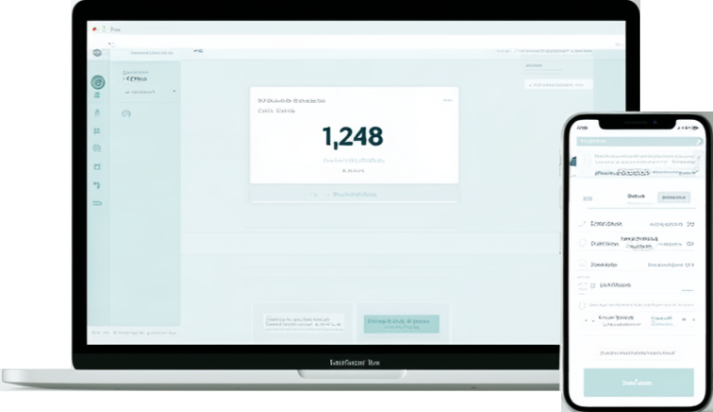
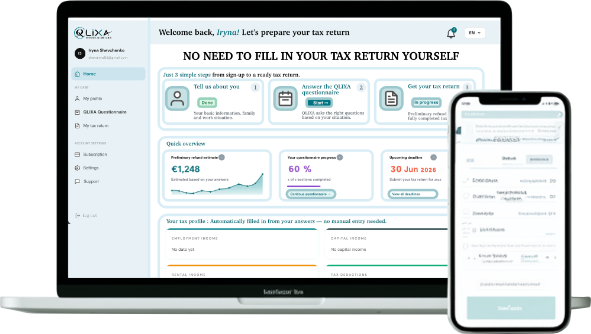
updated

diff --git a/src/app/for/naymanyy/page.tsx b/src/app/for/naymanyy/page.tsx
@@ -12,43 +12,43 @@ const CABINET_CTA = 'https://cabinet-ten-lac.vercel.app/login?plan=employee'
 
 const T: Record<string, any> = {
   UA: {
-    badge: 'Для найманих працівників',
-    heroQ: 'Працюєш за наймом в Австрії?',
+    badge: 'Для найманих працівників, самозайнятих, фрилансерів та інших',
+    heroQ: 'Працюєш або маєш дохід в Австрії?',
     relatedLinks: [
       { label: 'Маєш капітальні та закордонні доходи', href: '/for/samostiynyy' },
       { label: 'Здаєш нерухомість', href: '/for/nerukhomist' },
       { label: 'Або маєш дохід з кількох джерел', href: '/for/nerukhomist' },
       { label: 'Пенсіонер з доходом', href: '/for/pensioner' },
     ],
-    heroDesc: 'Цей інструмент для тебе, якщо ти хочеш самостійно подати декларацію, не знаєш, які витрати можна врахувати, маєш сім\u2019ю, дітей або інші обставини, що можуть впливати на податкове повернення.',
+    heroDesc: 'Не потрібно знати, що можна списати або куди це вписувати. Просто відповідай на зрозумілі запитання — QLIXA розбере саме твою ситуацію.',
     heroNote: 'Не потрібно бути бухгалтером — QLIXA проведе тебе крок за кроком.',
-    h1Before: 'Розрахуй своє податкове повернення ',
+    h1Before: 'Підготуй свою податкову декларацію ',
     h1Emphasis: 'в Австрії',
-    heroSubtext: 'QLIXA проведе тебе через персональну податкову анкету, знайде можливі відрахування та покаже орієнтовну суму повернення.',
+    heroSubtext: 'QLIXA проведе тебе через персональну податкову анкету, перевірить можливі категорії списань, покаже попередній розрахунок можливого повернення та підготує повністю заповнену декларацію.',
     price: '19,90', period: '/ рік',
     priceNote: 'Разова оплата · доступ протягом податкового року',
     ctaMain: 'Почати розрахунок →',
-    features: ['Без щомісячної підписки', 'Доступ одразу після оплати', 'Можна заповнювати протягом року', 'Підходить для більшості працівників по найму'],
+    features: ['Особистий кабінет', 'Персональна автоматизована анкета', 'Аналіз твоєї ситуації', 'Перевірка можливих категорій списань', 'Попередній розрахунок можливого повернення', 'Повністю заповнена податкова декларація', 'Підготовка для подання через FinanzOnline'],
 
     block3H2: 'Не потрібно знати, що можна списати',
     block3Sub: 'QLIXA сама поставить правильні запитання.',
-    block3P1: 'Тобі не потрібно пам\u2019ятати всі можливі податкові витрати або знати австрійські податкові правила.',
-    block3P2: 'Ти просто відповідаєш на зрозумілі запитання — QLIXA аналізує твою ситуацію та визначає, що може бути релевантним саме тобі.',
+    block3P1: 'Тобі не потрібно знати, які списання стосуються саме тебе, або розбиратися в австрійських податкових правилах.',
+    block3P2: 'Ти відповідаєш на прості запитання про роботу, сім\u2019ю, доходи, витрати та інші обставини — QLIXA підбирає наступні запитання залежно від твоїх відповідей.',
     quoteQ: 'Не знаєш, що можна списати?',
     quoteA: 'Тобі не потрібно знати. QLIXA запитає.',
 
     questionsLabel: 'QLIXA питає',
-    questions: ['Чи маєш ти витрати, пов\u2019язані з дорогою до роботи?', 'Ти працюєш частково з дому?', 'У тебе є діти?'],
+    questions: ['Чи маєш ти витрати, пов\u2019язані з роботою?', 'Ти працюєш частково або повністю з дому?', 'Чи маєш ти додаткові доходи?'],
     yes: 'Так', no: 'Ні',
     relevantLabel: 'QLIXA додає наступні релевантні питання',
-    relevantItems: ['Витрати на дітей', 'Сімейні бонуси', 'Додаткові відрахування'],
-    resultLabel: 'Твій результат',
-    resultDesc: 'Можливе повернення податку',
+    relevantItems: ['Робочі витрати', 'Сімейні обставини', 'Інші доходи (оренда, інвестиції)'],
+    resultLabel: 'Попередній розрахунок',
+    resultDesc: 'можливого повернення',
     resultAmount: '€1 248',
     flow1: 'Ти відповідаєш', flow2: 'QLIXA аналізує', flow3: 'Отримуєш результат',
 
     block5H2: 'Не потрібно згадувати все в останній день',
-    block5Sub: 'Можеш вести свої дані протягом року — або пройти все одразу.',
+    block5Sub: 'Можеш додавати дані поступово протягом року або пройти всю анкету одразу.',
     card1Label: 'Протягом року',
     card1Desc: 'Додавай витрати та важливі обставини поступово, щоб нічого не забути.',
     card1Tag: 'Зручно для планування',
@@ -62,9 +62,9 @@ const T: Record<string, any> = {
     categories: [
       { icon: '💼', title: 'Робота', desc: 'Витрати та обставини, пов\u2019язані з роботою.' },
       { icon: '🚗', title: 'Дорога', desc: 'Витрати та обставини, пов\u2019язані з дорогою до роботи.' },
-      { icon: '🏠', title: 'Житло', desc: 'Релевантні витрати, пов\u2019язані з роботою та житлом.' },
       { icon: '👨👩👧', title: 'Сім\u2019я', desc: 'Діти, сімейний статус та інші важливі обставини.' },
       { icon: '🎓', title: 'Навчання', desc: 'Професійне навчання та розвиток.' },
+      { icon: '📈', title: 'Інвестиції та оренда', desc: 'Дохід від інвестицій, оренди або інших джерел.' },
       { icon: '⋯', title: 'Інші обставини', desc: 'QLIXA поставить додаткові питання, якщо вони можуть впливати на результат.' },
     ],
     block6Footer1: 'Тобі не потрібно самостійно визначати податкову категорію — ',
@@ -74,12 +74,12 @@ const T: Record<string, any> = {
     steps: [
       { n: '01', title: 'Персональна податкова анкета', desc: 'QLIXA збирає інформацію про твою ситуацію.' },
       { n: '02', title: 'Можливі податкові відрахування', desc: 'Побачиш, що може бути враховано саме у твоєму випадку.' },
-      { n: '03', title: 'Розрахунок', desc: 'Отримаєш орієнтовний розрахунок можливого повернення.' },
-      { n: '04', title: 'Готові дані для FinanzOnline', desc: 'Зможеш використати підготовлений результат під час подання декларації.' },
+      { n: '03', title: 'Розрахунок', desc: 'Отримаєш попередній розрахунок можливого повернення.' },
+      { n: '04', title: 'Повністю заповнена декларація', desc: 'QLIXA формує готову до перевірки та подання податкову декларацію на основі твоїх відповідей.' },
     ],
 
-    block8H2: 'Готовий перевірити своє податкове повернення?',
-    block8Sub: 'Відповідай на прості запитання. QLIXA зробить складну частину за тебе.',
+    block8H2: 'Готовий підготувати свою декларацію?',
+    block8Sub: 'Відповідай на прості запитання. QLIXA розбере твою ситуацію, покаже попередній результат та підготує декларацію.',
     underCta: 'Після оплати ти одразу можеш перейти до персональної податкової анкети.',
 
     faqH2: 'Поширені питання',
@@ -87,7 +87,7 @@ const T: Record<string, any> = {
       { q: 'Чи потрібно знати австрійські податкові правила?', a: 'Ні. QLIXA проводить тебе через анкету простою мовою.' },
       { q: 'Чи можна заповнювати анкету поступово?', a: 'Так. Дані можна додавати протягом року.' },
       { q: 'Чи можна пройти все одразу?', a: 'Так. Якщо інформація вже під рукою, можна пройти анкету за один раз.' },
-      { q: 'Чи є щомісячна підписка?', a: 'Ні. Тариф «Найманий працівник» оплачується один раз — €19,90 за податковий рік.' },
+      { q: 'Чи подає QLIXA декларацію за мене?', a: 'Ні. Ти отримуєш повністю заповнену декларацію, перевіряєш її та подаєш самостійно через FinanzOnline. Рішення завжди залишається за тобою.' },
     ],
 
     block10H2: 'Перевір, скільки можеш повернути',
@@ -639,7 +639,7 @@ export default function Page() {
             maxWidth: 380, margin: '0 auto',
           }}>
             <div style={{ fontSize: 11, fontWeight: 700, letterSpacing: '1.5px', textTransform: 'uppercase' as const, color: '#038390', marginBottom: 10 }}>
-              Тариф «Найманий працівник»
+              QLIXA Tax Return
             </div>
             <div style={{ display: 'flex', alignItems: 'baseline', justifyContent: 'center' as const, gap: 6, marginBottom: 4 }}>
               <span style={{ fontFamily: 'DM Serif Display, serif', fontSize: 34, fontWeight: 700, color: '#1A1A1A' }}>€{t.price}</span>

diff --git a/src/app/page.tsx b/src/app/page.tsx
@@ -393,12 +393,12 @@ const FORWHOM_TEXT: Record<string, {
     h2Prefix: 'QLIXA подходит, ',
     h2Emphasis: 'если ты:',
     cards: [
-      ['Наёмный работник', 'Работаешь по найму, но хочешь контролировать свои финансы и правильно рассчитать ежегодный возврат налогов.'],
-      ['Пенсионер с доходом', 'Дополнительный доход от подработки — QLIXA рассчитает твои обязательства просто и понятно.'],
-      ['Имеешь капитальные и заграничные доходы', 'Есть доход от продажи акций, недвижимости или из-за границы? QLIXA рассчитает KESt и другие обязательства точно и без ошибок.'],
-      ['Сдаёшь недвижимость', 'Или имеешь доход из нескольких источников — платформа учтёт все поступления и списания.'],
-      ['Самозанятый / Фрилансер', 'Neue Selbstständige, Gewerbe или свободная профессия — IT, дизайн, консалтинг. QLIXA объясняет каждый шаг без сложных терминов и лишнего стресса.'],
-      ['Ведёшь маленький бизнес', 'Или только планируешь открыть — QLIXA пройдёт с тобой каждый шаг от регистрации до отчётов.'],
+      ['Наёмный работник', 'Работаешь по найму? QLIXA поможет разобраться с возможными списаниями, рассчитать предварительный возврат и подготовить декларацию.'],
+      ['Пенсионер с доходом', 'Получаешь пенсию и дополнительный доход? QLIXA поможет учесть доходы и подготовить твою налоговую декларацию.'],
+      ['Есть доходы от инвестиций или из-за границы', 'Есть доход от инвестиций или из другой страны? QLIXA поможет учесть нужную информацию при подготовке декларации.'],
+      ['Сдаёшь недвижимость', 'Сдаёшь жильё или имеешь несколько источников дохода? QLIXA поможет собрать и учесть всё для декларации.'],
+      ['Самозанятый / Фрилансер', 'Neue Selbstständige, Gewerbe или свободная профессия? QLIXA поможет разобраться с доходами и расходами и подготовить декларацию.'],
+      ['Ведёшь небольшой бизнес', 'Есть доходы и расходы от своего дела? QLIXA поможет учесть их и подготовить твою налоговую декларацию.'],
     ],
     soonLabel: 'Скоро',
   },
@@ -1071,13 +1071,13 @@ export default function HomePage() {
           <img
             src="/hero/laptop_hero_only.png"
             alt=""
-            style={{ position: 'absolute' as const, left: '49.84%', top: '4.6%', width: '50.16%', height: '76.3%', objectFit: 'contain' as const, objectPosition: 'left top' as const }}
+            style={{ position: 'absolute' as const, left: '50.867%', top: '32.532%', width: '49.133%', height: '42.303%', objectFit: 'contain' as const, objectPosition: 'left top' as const }}
           />
 
-          <div style={{ position: 'absolute' as const, left: '0%', top: '16.4%', fontFamily: 'Arial Black, Arial, sans-serif', fontWeight: 900, fontSize: 'clamp(28px,5.4vw,70px)', lineHeight: 1, color: '#1A1A1A', whiteSpace: 'nowrap' as const }}>
+          <div style={{ position: 'absolute' as const, left: '0%', top: '16.412%', fontFamily: 'Arial Black, Arial, sans-serif', fontWeight: 900, fontSize: 'clamp(28px,5.4vw,70px)', lineHeight: 1, color: '#1A1A1A', whiteSpace: 'nowrap' as const }}>
             3 STEPS
           </div>
-          <div style={{ position: 'absolute' as const, left: '0.16%', top: '28.9%', fontFamily: 'Arial Black, Arial, sans-serif', fontWeight: 900, fontSize: 'clamp(17px,3.27vw,42px)', lineHeight: 1, color: '#1A1A1A', whiteSpace: 'nowrap' as const }}>
+          <div style={{ position: 'absolute' as const, left: '0%', top: '24.835%', fontFamily: 'Arial Black, Arial, sans-serif', fontWeight: 900, fontSize: 'clamp(17px,3.27vw,42px)', lineHeight: 1, color: '#1A1A1A', whiteSpace: 'nowrap' as const }}>
             TO YOUR TAX RETURN IN AUSTRIA.
           </div>
 
@@ -1303,8 +1303,8 @@ export default function HomePage() {
               { img: '/for-who/pensioner.png', href: '/for/pensioner' },
               { img: '/for-who/samostiynyy.png', href: '/for/samostiynyy' },
               { img: '/for-who/nerukhomist.png', href: '/for/nerukhomist' },
-              { img: '/for-who/frilanser.png', href: '/for/frilanser', isSoon: true },
-              { img: '/for-who/biznes.png', href: '/for/biznes', isSoon: true },
+              { img: '/for-who/frilanser.png', href: '/for/frilanser', isSoon: false },
+              { img: '/for-who/biznes.png', href: '/for/biznes', isSoon: false },
             ].map((card, i) => (
               <Link key={i} href={card.href} style={{ textDecoration: 'none' }}>
                 <div style={{ background: '#F0F7F8', borderRadius: 20, padding: '24px', border: '1px solid rgba(3,131,144,0.12)', transition: 'transform 0.2s, box-shadow 0.2s', cursor: 'pointer', height: '100%', position: 'relative' as const }}
